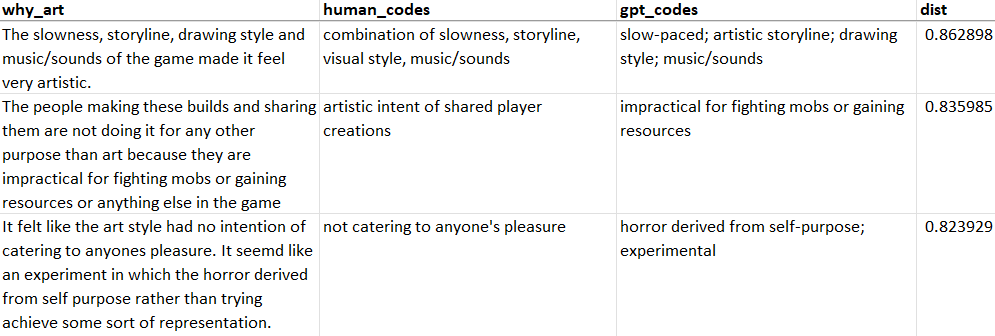
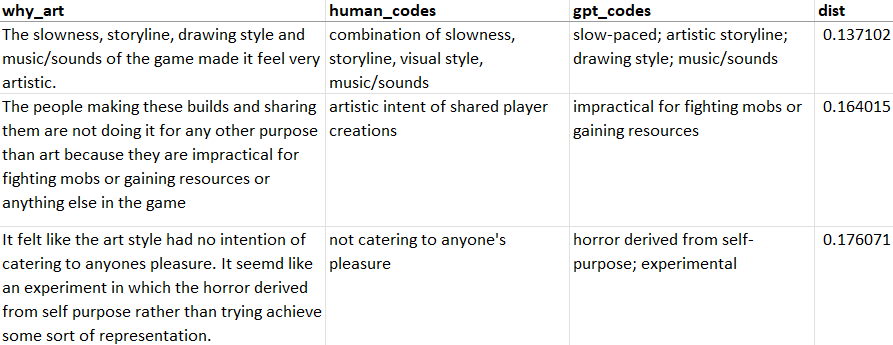
Switched from Hausdorff similarities to Hausdorff distances, which is perhaps more intuitive

diff --git a/llmcode/coding.py b/llmcode/coding.py
@@ -518,35 +518,6 @@ def code_and_group(prompt_base,gpt_model,df,embedding_model="text-similarity-cur
     return group_codes(df_coded, embedding_context=embedding_context,min_group_size=min_group_size,use_cache=use_cache,group_desc_codes=group_desc_codes,grouping_dim=grouping_dim)
 '''
 
-'''
-def gpt_human_code_dist(df,embedding_context,embedding_model):
-    result=df.copy()
-
-    # calculate distances between gpt and human codes
-    gpt_codes = df["codes"].tolist()
-    human_codes = df["human_codes"].tolist()
-
-    hausdorff_distances = []
-
-    for i in range(df.shape[0]):
-        # extract individual codes
-        gpt_codes_split=[code.strip() for code in gpt_codes[i].split(";")]
-        human_codes_split=[code.strip() for code in human_codes[i].split(";")]
-
-        # add context and generate embeddings
-        gpt_codes_with_context = [code + embedding_context for code in gpt_codes_split]
-        gpt_embeddings = embed(gpt_codes_with_context, use_cache=True, model=embedding_model)
-        human_codes_with_context = [code + embedding_context for code in human_codes_split]
-        human_embeddings = embed(human_codes_with_context, use_cache=True, model=embedding_model)
-
-        # compute the modified Hausdorff distance
-        hausdorff_distances.append(hausdorff_embedding_distance(A=gpt_embeddings, B=human_embeddings))
-    result["dist"]=hausdorff_distances
-    result.rename(columns={"codes":"gpt_codes"},inplace=True)
-    # sort the result based on similarity
-    result_sorted = result.sort_values('dist', ascending=False)
-    return result_sorted
-'''
 
 def gpt_human_code_dist(df,embedding_context,embedding_model):
     result=df.copy()
@@ -581,12 +552,13 @@ def gpt_human_code_dist(df,embedding_context,embedding_model):
         ))
         i_gpt+=n_gpt
         i_human+=n_human
-
+    hausdorff_distances=np.array(hausdorff_distances)
+    hausdorff_distances=np.where(hausdorff_distances < 1e-10, 0, hausdorff_distances) #clean floating point accuracy errors
     result["dist"]=hausdorff_distances
     result.rename(columns={"codes":"gpt_codes"},inplace=True)
 
     # sort the result based on similarity
-    result_sorted = result.sort_values('dist', ascending=False)
+    result_sorted = result.sort_values('dist', ascending=True)
     return result_sorted
 
 
@@ -767,9 +739,9 @@ def hausdorff_embedding_distance(A,B,A_counts=None,B_counts=None):
     A/=np.linalg.norm(A,axis=1,keepdims=True)
     B/=np.linalg.norm(B,axis=1,keepdims=True)
     cosine_sim = np.inner(A, B)  #result shape [n_A,n_B]
-    #dist = 1.0 - cosine_sim  #cosine distance
+    cosine_dist = 1.0 - cosine_sim  #cosine distance
 
-    res = np.sum(A_counts*np.max(cosine_sim,axis=1))+np.sum(B_counts*np.max(cosine_sim,axis=0))
+    res = np.sum(A_counts*np.min(cosine_dist,axis=1))+np.sum(B_counts*np.min(cosine_dist,axis=0))
     res = res / (np.sum(A_counts)+np.sum(B_counts))
 
     return res

diff --git a/readme.md b/readme.md
@@ -67,7 +67,7 @@ The format should allow a human researcher to easily rename groups and move code
 ### Evaluating Code Quality
 For evaluating code quality using the validation codes, we also produce a .csv that shows the human and LLM codes side-by-side, sorted from most human-like to least human-like. Before carrying out further analyses on a particular dataset, **one should check the least human-like codes to see whether the LLM coding errors are acceptable.**
 
-Here, human-likeness is calculated by treating the embedding vectors of the codes for a specific coded text as high-dimensional point clouds. The LLM and human point clouds are then compared using a Modified Hausdorff cosine distance metric. A distance of 1 means the codes are identical and both the LLM and human coder have assigned the same number of codes to the text.
+Here, human-likeness is calculated by treating the embedding vectors of the codes for a specific coded text as high-dimensional point clouds. The LLM and human point clouds are then compared using a Modified Hausdorff cosine distance metric. A distance of 0 means the codes are identical and both the LLM and human coder have assigned the same number of codes to the text.
 
 Below, you can see the 3 least human-like codes assigned to the Bopp et al. responses using the <code>text-curie-001</code> model (our default):
 
